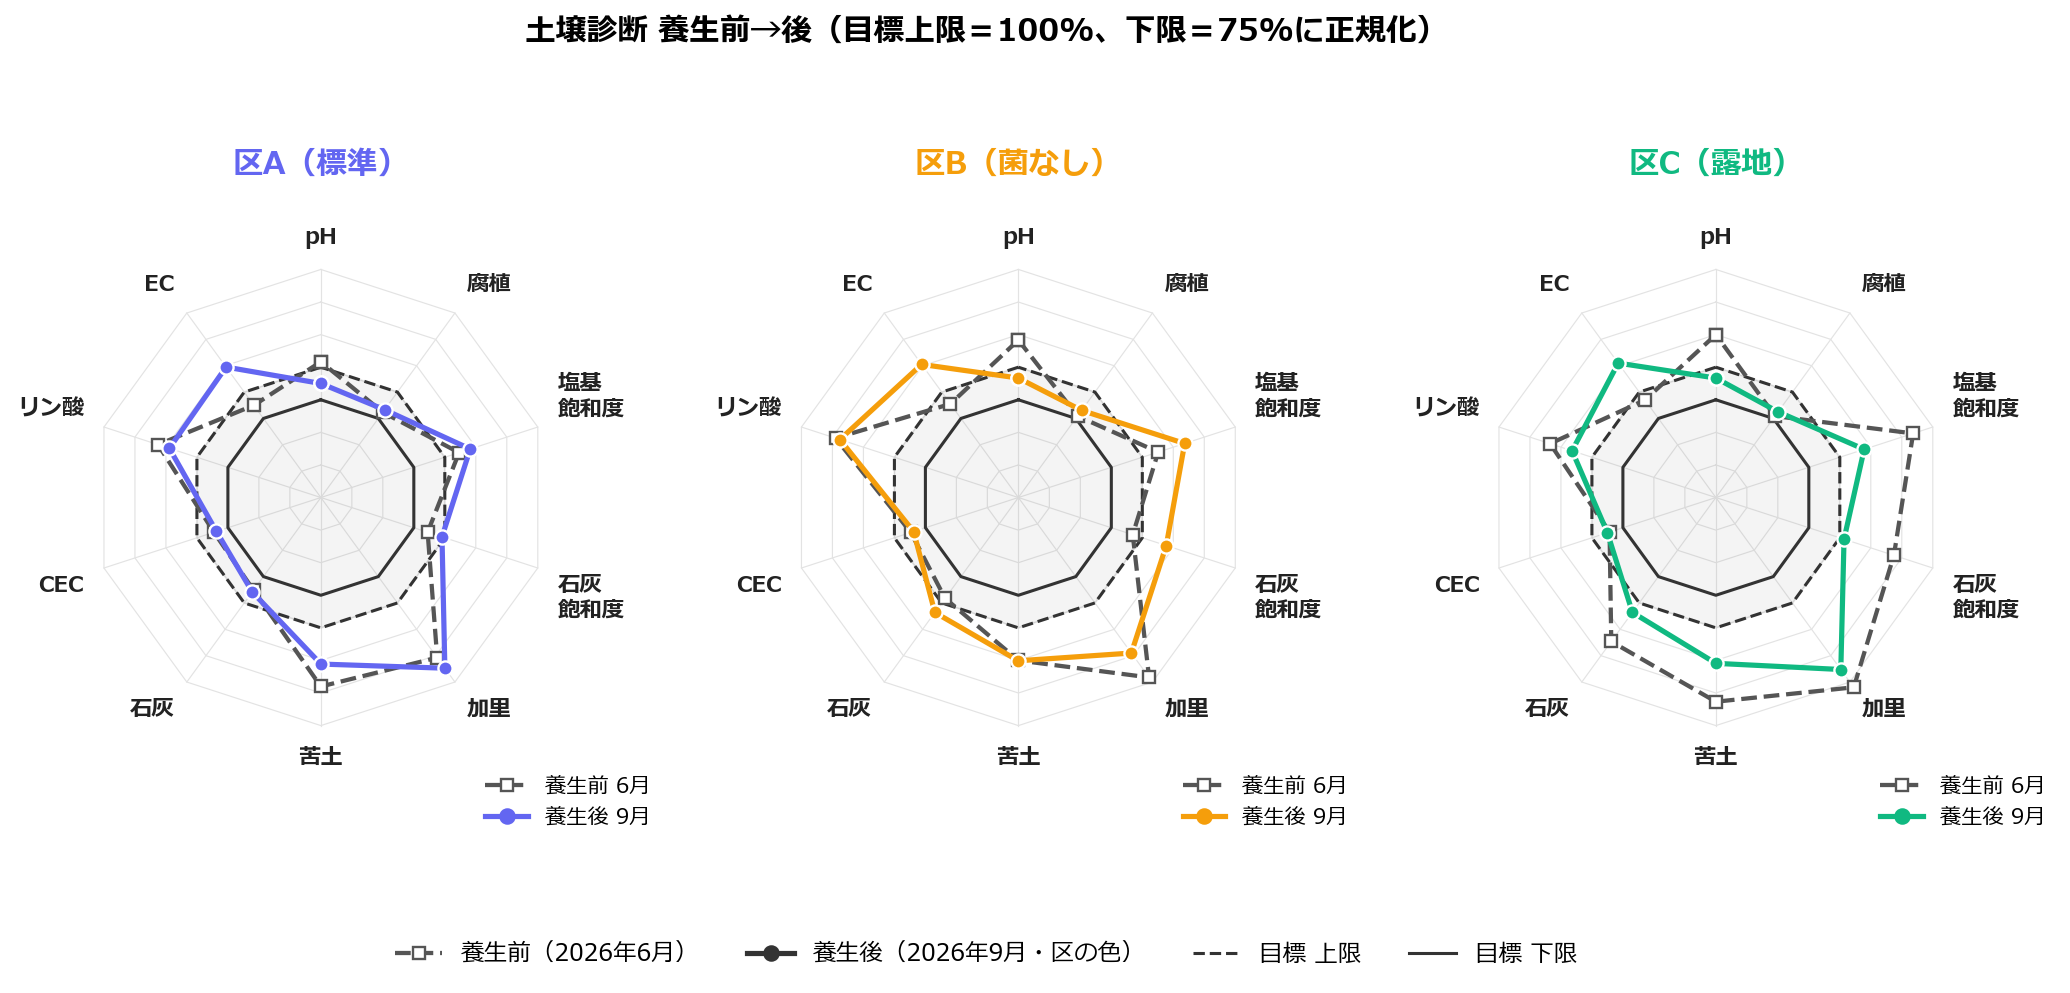
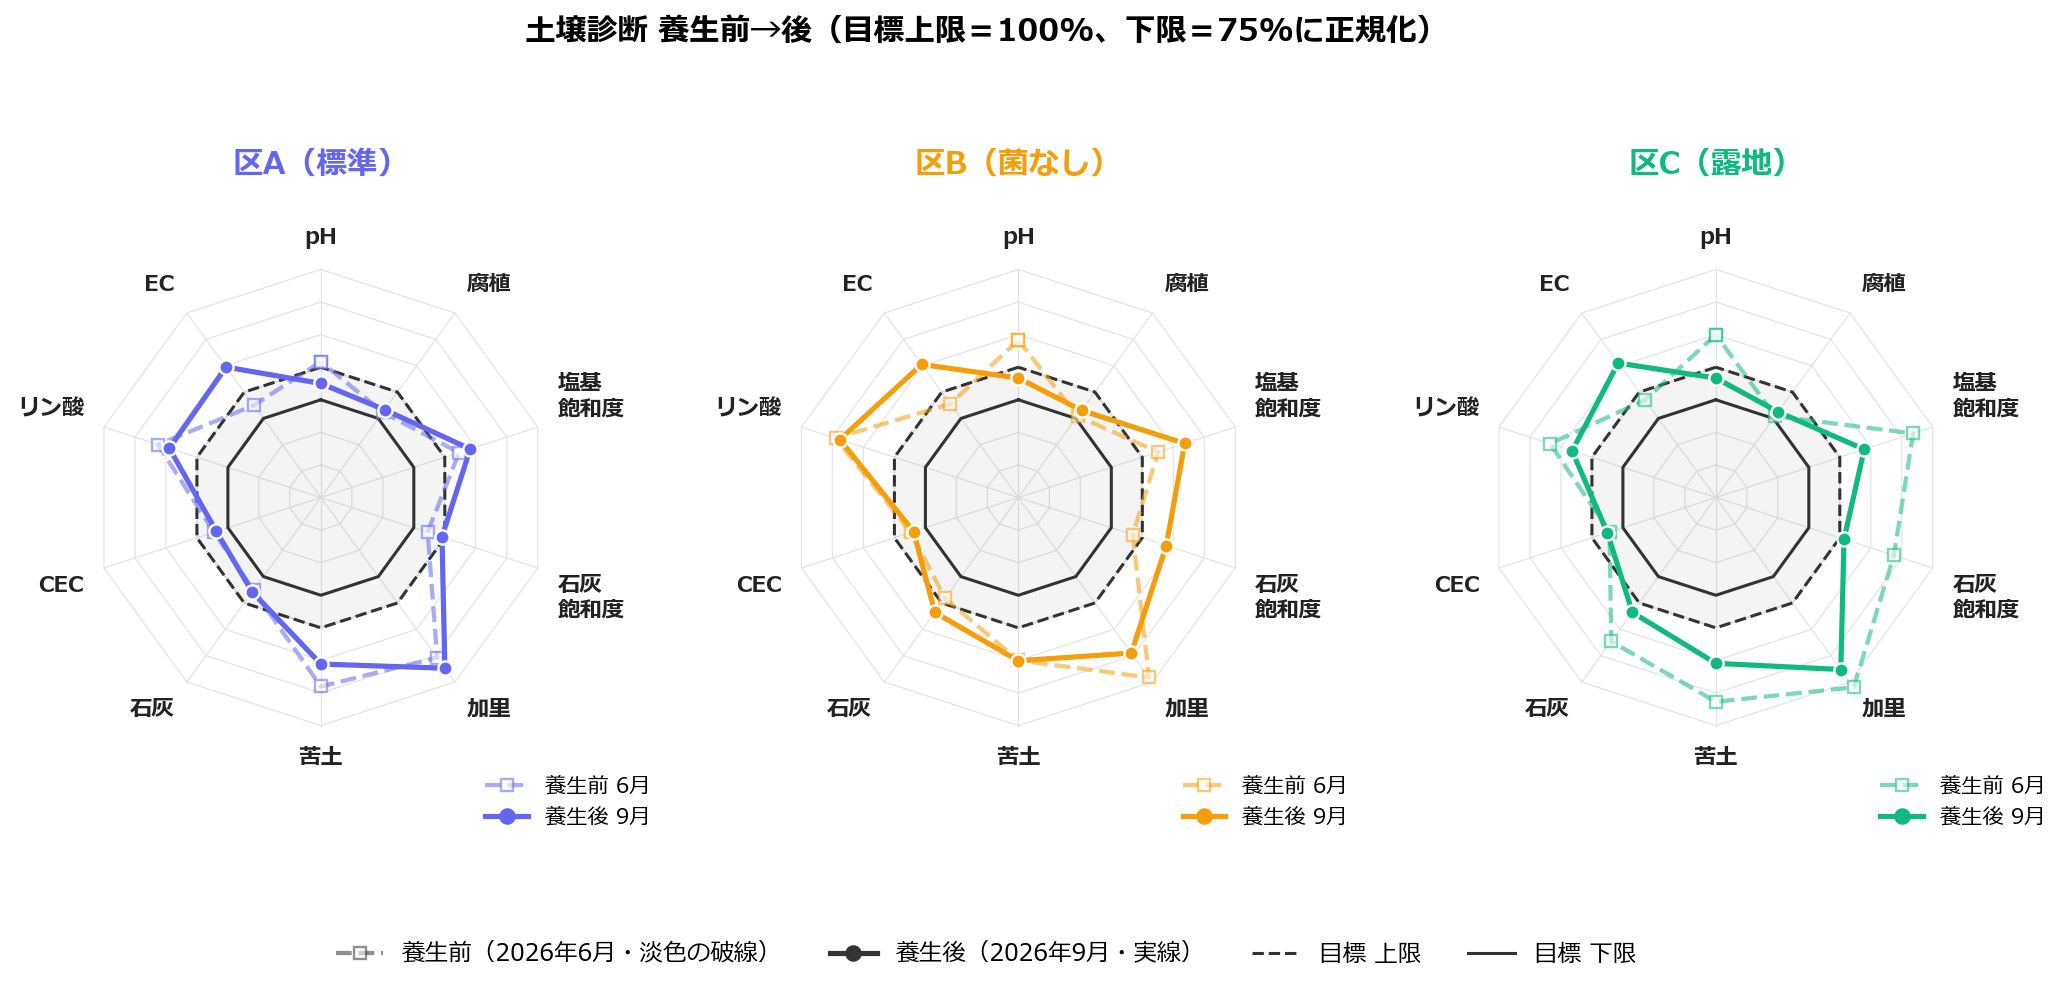
fix: 太陽熱養生ページの資材記述と土壌診断レーダーを修正
- もみ殻は投入していないため記述を削除。3レイヤー分解リレーの図も削除
- レーダーの養生前を区の色の淡い破線に変更（前後の対応が見やすいように）

diff --git a/content/projects/soil-temp-solarization/index.md b/content/projects/soil-temp-solarization/index.md
@@ -50,9 +50,7 @@ layout: "simple"
 
 <figure class="fig-wide"><img src="fig_zones.png" alt="3試験区の処理とセンサー配置"><figcaption>区A − 区B ＝ 微生物資材の効果、区B − 区C ＝ ビニール被覆の効果</figcaption></figure>
 
-**投入資材（1㎡あたり）**：米ぬか 300g／BLOF堆肥23（C/N比23）1.5kg／もみ殻 1L。区Aにはさらに、VS菌（放線菌を含む有用微生物群）の接種源としてバーク堆肥 0.5kg。分解の速い米ぬかから遅いもみ殻へ、微生物のエサが途切れないように組みました。肥料分の少ない資材を選んだのは、養生前の診断でリン酸と塩基が過剰だったためです。
-
-<figure class="fig-wide"><img src="fig_material_relay.webp" alt="速・中・遅の3レイヤー分解リレー"><figcaption>投入資材の分解リレー（計画時の図。中堆肥は実際にはBLOF堆肥23を使用）</figcaption></figure>
+**投入資材（1㎡あたり）**：米ぬか 300g／BLOF堆肥23（C/N比23）1.5kg。区Aにはさらに、VS菌（放線菌を含む有用微生物群）の接種源としてバーク堆肥 0.5kg。分解の速い米ぬかで微生物を一気に増やし、堆肥が引き継ぐ組み合わせです。肥料分の少ない資材を選んだのは、養生前の診断でリン酸と塩基が過剰だったためです。
 
 ### 測定
 
@@ -114,7 +112,7 @@ layout: "simple"
 
 ## 結果 2：土壌診断（養生前→後）
 
-破線が養生前、色付きの実線が養生後。内側の実線（目標下限）と点線（目標上限）の間に入っていれば適正です。
+淡い破線が養生前、濃い実線が養生後。内側の実線（目標下限）と点線（目標上限）の間に入っていれば適正です。
 
 <figure class="fig-wide"><img src="fig_soil_radar.png" alt="土壌診断 養生前後のレーダーチャート（区A・B・C）"><figcaption>3区とも pH が枠の外から枠内へ入り、EC が枠の外へ出た。右下（苦土・加里・塩基飽和度）の過剰は形がほぼ変わらない</figcaption></figure>
 
@@ -136,7 +134,7 @@ layout: "simple"
 
 **ECは倍以上に上がり、3区とも上限0.30を超えた。** 原因はpHと同じで、有機物の分解で無機態窒素（おそらく硝酸態）が出てきたと考えられます。窒素は未計測なので推定ですが、「pHが下がってECが上がる」は窒素が放出されたときのセットの動きです。**次作の元肥窒素は控えめに**するのが安全です。
 
-**腐植は3区とも微増**（+0.19〜+0.43%）。堆肥ともみ殻の分です。
+**腐植は3区とも微増**（+0.19〜+0.43%）。堆肥の分です。
 
 **過剰なリン酸・苦土・加里・塩基飽和度は持ち越し。** 肥料分の少ない資材を選んだので悪化はしていませんが、養生で過剰分を抜く効果はありません。JAの処方も窒素・リン酸・加里とも 0 kg/10a でした。
 
